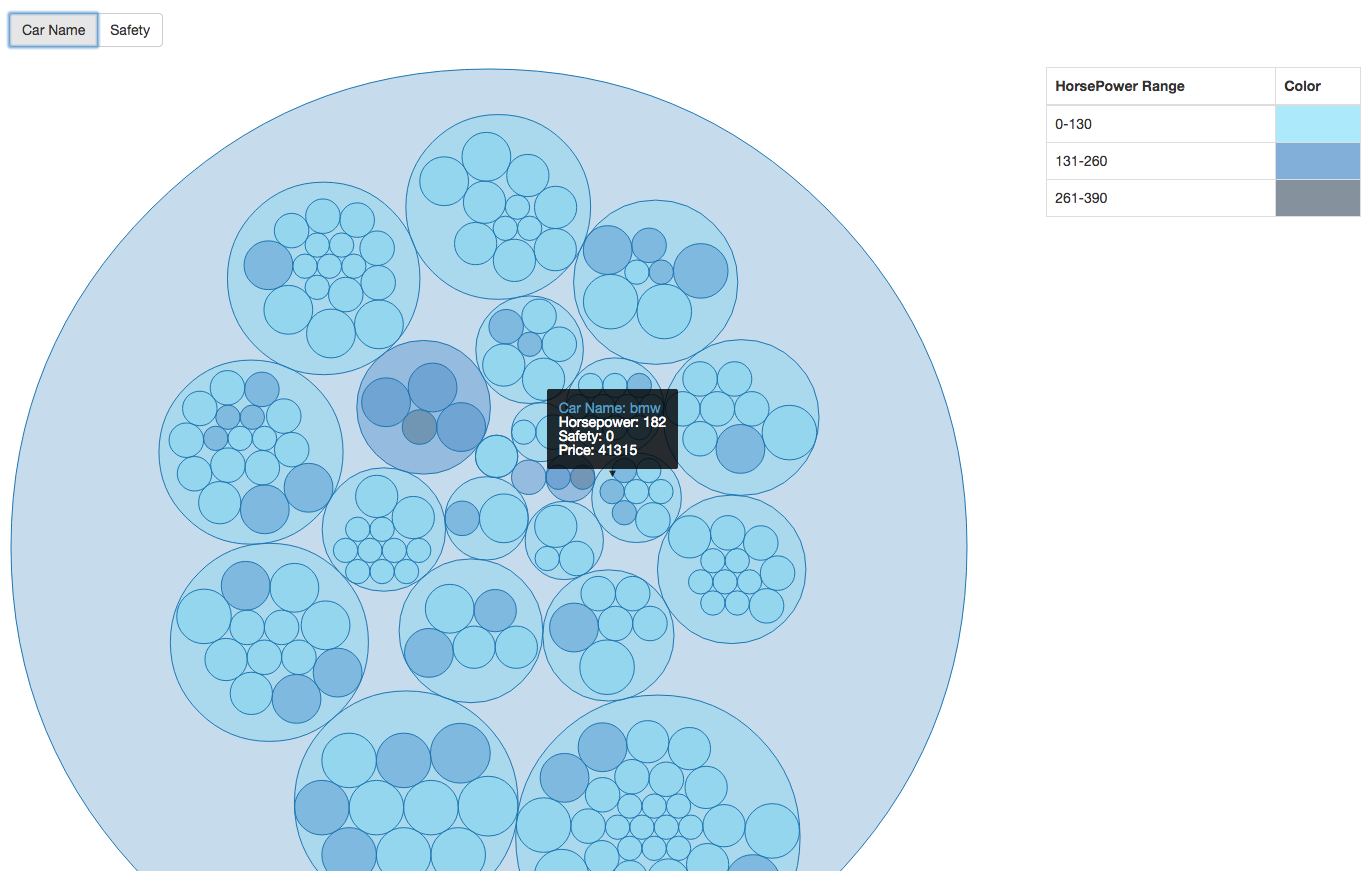
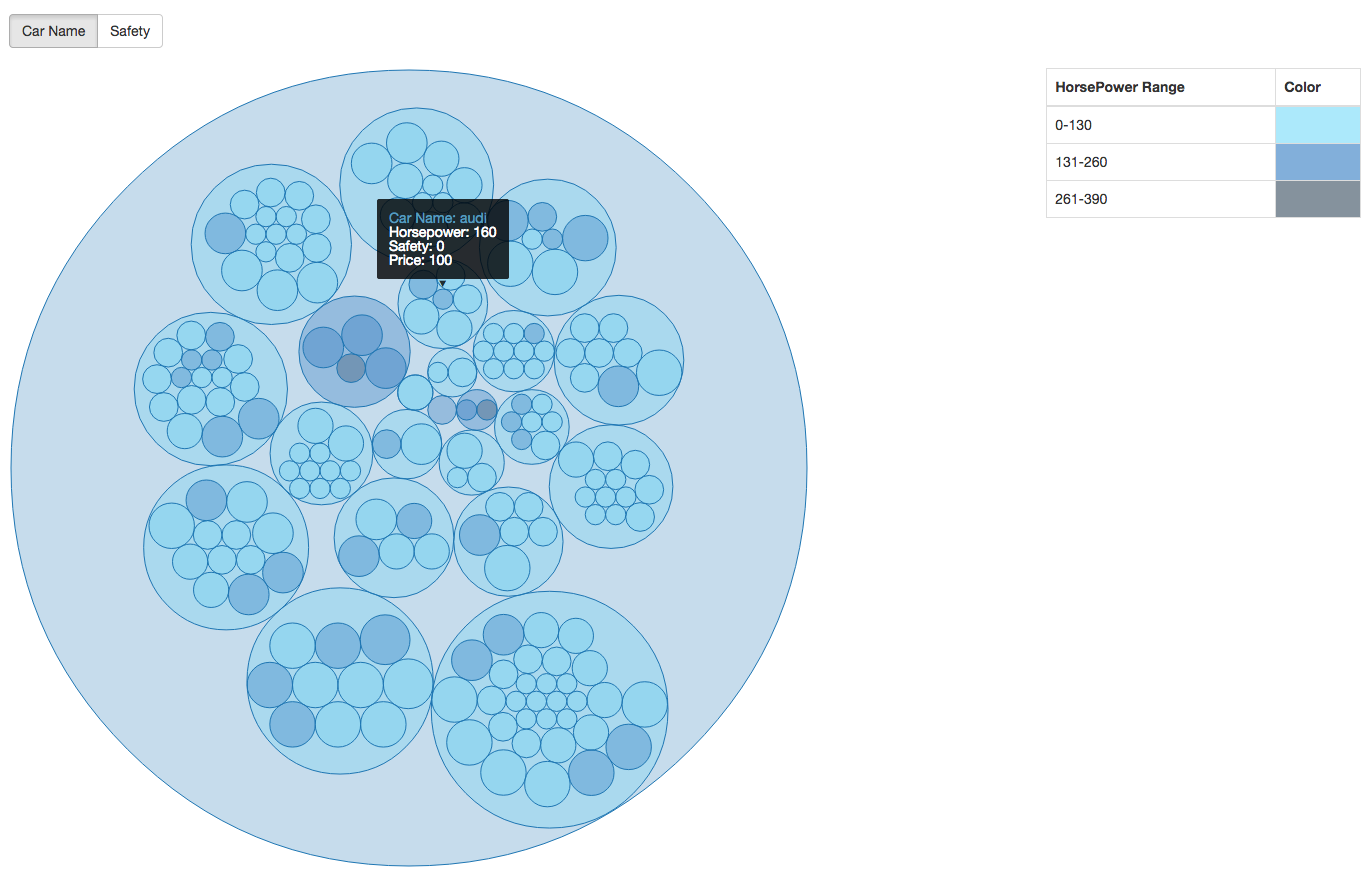
Changed the circle diameter

diff --git a/app/scripts/services/drawService.js b/app/scripts/services/drawService.js
@@ -6,7 +6,7 @@ angular.module('carDataApp').service('drawService', function() {
   };
   var drawPackCircles = function(data, ele, param){
 
-      var diameter = 960;
+      var diameter = 800;
 
       /*var color = d3.scale.category10();*/
       var color = d3.scale.quantize()
